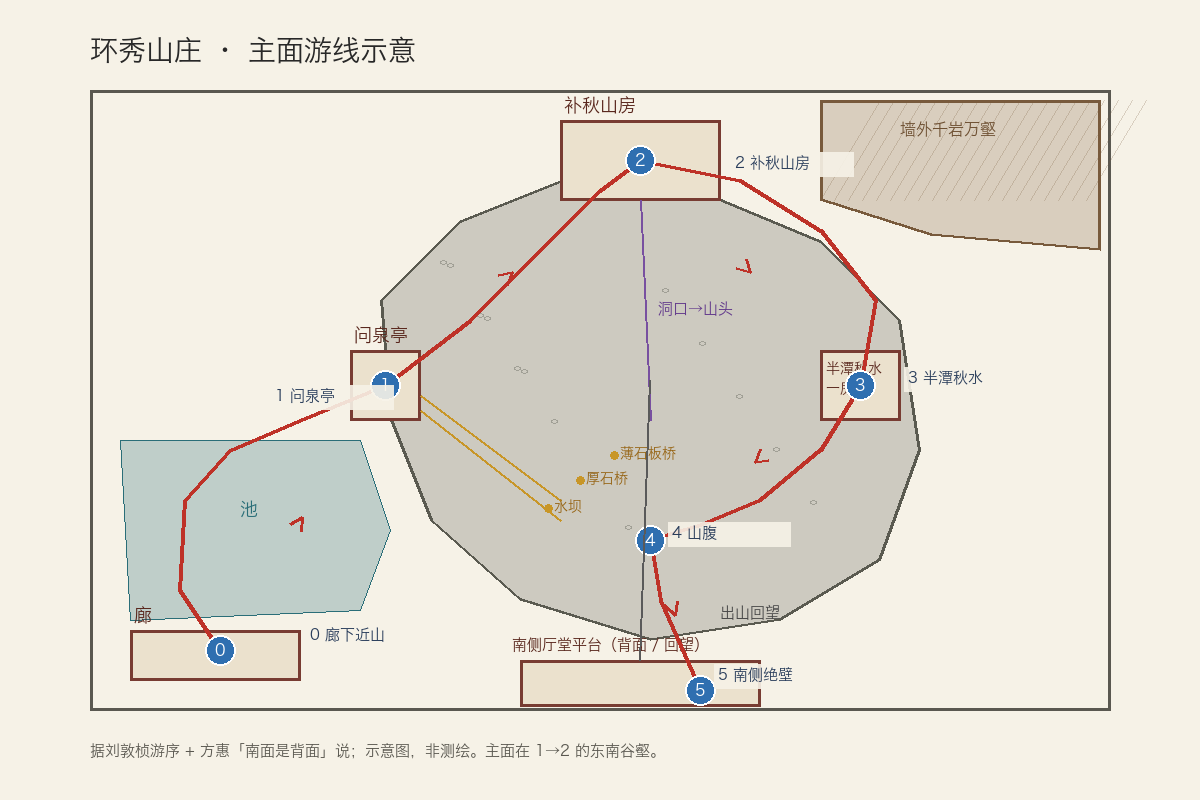
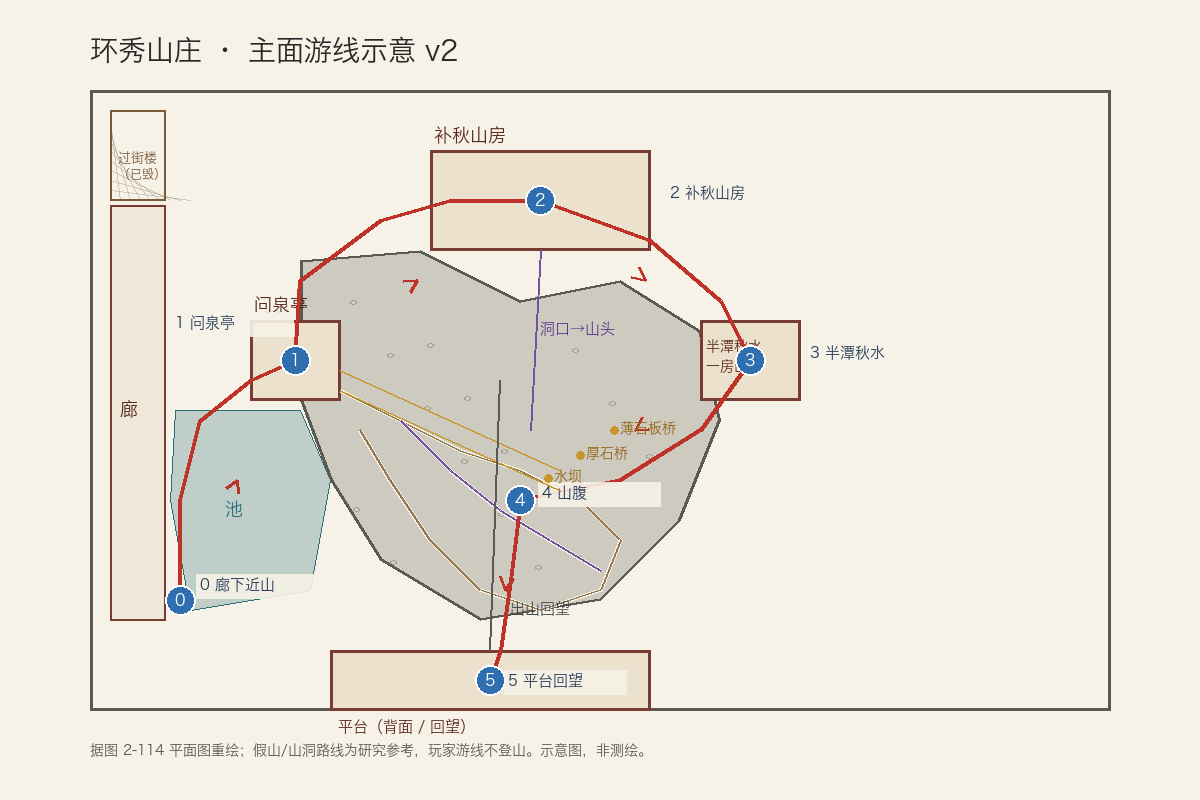
art(huanxiu): 游线平面 v2 据图2-114重绘；山洞路线作山腹
- route-plan.png v2：补秋山房北、问泉亭西、半潭秋水东、廊沿西墙、平台南；
  假山路线（虚线）与山洞路线（点划线）均画出
- 明确分工：假山路线不作玩家路径（不能登）；山洞路线可作 4 山腹 入山段，
  标“游戏化再现”，不等于今日开放
- 图 2-114 仅研究参考，不入游戏资源；本图为重绘示意

diff --git a/Game/gusu-whitebox/control/huanxiu/build_route_plan.py b/Game/gusu-whitebox/control/huanxiu/build_route_plan.py
@@ -1,5 +1,10 @@
 #!/usr/bin/env python3
-"""环秀山庄 · 主面游线示意（自绘，不复制书图）。"""
+"""环秀山庄 · 主面游线示意 v2（据平面图重绘，不复制原图）。
+
+参考：图 2-114《苏州环秀山庄平面图》（研究参考，不入游戏资源）。
+布局：补秋山房在北、问泉亭在西、半潭秋水一房山在东、廊沿西墙、平台在南；
+假山路线（虚线）与山洞路线（点划线）都在山体里。本图只画“看”的游线，不画可攀爬。
+"""
 from PIL import Image, ImageDraw, ImageFont
 from pathlib import Path
 import math
@@ -13,83 +18,95 @@ def main():
     d = ImageDraw.Draw(im, 'RGBA')
     d.rectangle([90, 90, 1110, 710], outline=(90, 88, 80), width=3)
 
-    pond = [(120,440),(360,440),(390,530),(360,610),(130,620)]
-    d.polygon(pond, fill=(90, 140, 145, 90), outline=(42, 110, 120))
-    d.text((240, 500), '池', fill=(42, 110, 120), font=F(18))
+    # 过街楼（已毁）与廊：西墙
+    d.rectangle([110,110,165,200], outline=(120,90,60), width=2)
+    for k in range(0, 90, 10):
+        d.line([(110+k,200),(110,110+k)], fill=(120,90,60,70), width=1)
+    d.text((118,150), '过街楼', fill=(120,90,60), font=F(13))
+    d.text((118,168), '（已毁）', fill=(120,90,60), font=F(12))
+    d.rectangle([110,205,165,620], fill=(235,225,205,160), outline=(120,60,50), width=2)
+    d.text((120,400), '廊', fill=(90,40,30), font=F(18))
 
-    rock = [(380,300),(460,220),(560,180),(700,190),(820,240),(900,320),(920,450),
-            (880,560),(780,620),(650,640),(520,600),(430,520),(390,420)]
-    d.polygon(rock, fill=(150, 150, 140, 110), outline=(90, 90, 80), width=3)
-    for i in range(14):
-        x = 440 + (i * 37) % 400
-        y = 260 + (i * 53) % 290
-        d.ellipse([x, y, x+6, y+4], outline=(110,110,100,120))
+    # 池（西/西南）
+    pond = [(175,410),(300,410),(330,480),(310,590),(190,610),(170,500)]
+    d.polygon(pond, fill=(90,140,145,90), outline=(42,110,120))
+    d.text((225,500), '池', fill=(42,110,120), font=F(18))
 
-    wall = [(820,100),(1100,100),(1100,250),(930,235),(820,200)]
-    d.polygon(wall, fill=(140, 110, 80, 70), outline=(120, 90, 60), width=3)
-    for k in range(0, 280, 14):
-        d.line([(820+k, 200), (820+k+60, 100)], fill=(120, 90, 60, 60), width=1)
-    d.text((900, 120), '墙外千岩万壑', fill=(110, 80, 50), font=F(16))
+    # 山体
+    rock = [(300,260),(420,250),(520,300),(620,280),(700,330),(720,420),
+            (680,520),(600,600),(480,620),(380,560),(330,480),(300,400)]
+    d.polygon(rock, fill=(150,150,140,110), outline=(90,90,80), width=3)
+    for i in range(16):
+        x = 350 + (i*37) % 330
+        y = 300 + (i*53) % 270
+        d.ellipse([x,y,x+6,y+4], outline=(110,110,100,120))
 
-    def house(box, label, fs=18, above=True):
-        d.rectangle(box, fill=(235, 225, 205), outline=(120, 60, 50), width=3)
-        if above:
-            d.text((box[0]+4, box[1]-24), label, fill=(90, 40, 30), font=F(fs))
+    # 建筑
+    def house(box, label, fs=18, dy=-24):
+        d.rectangle(box, fill=(235,225,205), outline=(120,60,50), width=3)
+        d.text((box[0]+4, box[1]+dy), label, fill=(90,40,30), font=F(fs))
+    house((430,150,650,250), '补秋山房')
+    house((250,320,340,400), '问泉亭')
+    house((700,320,800,400), '', 14)
+    d.text((706,338), '半潭秋水', fill=(90,40,30), font=F(14))
+    d.text((706,358), '一房山', fill=(90,40,30), font=F(14))
+    house((330,650,650,710), '', 15, dy=8)
+    d.text((338,718), '平台（背面 / 回望）', fill=(90,40,30), font=F(15))
 
-    house((560,120,720,200), '补秋山房')
-    house((350,350,420,420), '问泉亭')
-    house((130,630,300,680), '廊')
-    house((820,350,900,420), '', 14)
-    d.text((826,360), '半潭秋水', fill=(90, 40, 30), font=F(14))
-    d.text((826,380), '一房山', fill=(90, 40, 30), font=F(14))
-    house((520,660,760,706), '', 15)
-    d.text((512, 636), '南侧厅堂平台（背面 / 回望）', fill=(90, 40, 30), font=F(15))
+    # 假山路线（虚线） / 山洞路线（点划线）——研究参考，不画成玩家可走
+    mtn = [(340,390),(400,420),(460,450),(520,470),(580,500),(620,540),(600,590),
+           (540,610),(480,590),(430,540),(390,480),(360,430)]
+    d.line(mtn, fill=(150,120,80), width=2)
+    for a,b in zip(mtn, mtn[1:]):
+        d.line([a,b], fill=(246,242,231), width=4)
+        d.line([a,b], fill=(150,120,80), width=2)
+    cave = [(400,420),(450,470),(500,510),(550,540),(600,570)]
+    for a,b in zip(cave, cave[1:]):
+        d.line([a,b], fill=(120,80,160), width=2)
+        d.line([a,b], fill=(246,242,231), width=4)
+        d.line([a,b], fill=(120,80,160), width=2)
 
-    stations = [(220,650),(385,385),(640,160),(860,385),(650,540),(700,690)]
-    labels = ['0 廊下近山','1 问泉亭','2 补秋山房','3 半潭秋水','4 山腹','5 南侧绝壁']
+    # 游线（玩家实际走：不登山，只沿谷/廊/平台）
     route = [
-        [(220,650),(180,590),(185,500),(230,450),(300,420),(385,385)],
-        [(385,385),(470,320),(540,250),(600,190),(640,160)],
-        [(640,160),(740,180),(820,230),(875,300),(860,385)],
-        [(860,385),(820,450),(760,500),(700,525),(650,540)],
-        [(650,540),(660,600),(700,690)],
+        [(180,600),(180,500),(200,420),(250,380),(295,360)],
+        [(295,360),(300,280),(380,220),(450,200),(540,200)],
+        [(540,200),(650,240),(720,300),(750,360)],
+        [(750,360),(700,430),(620,480),(520,500)],
+        [(520,500),(510,580),(500,650),(490,680)],
     ]
     for seg in route:
-        d.line(seg, fill=(190, 50, 40), width=4, joint='curve')
-    for i, (a, b) in enumerate(zip(stations, stations[1:])):
-        ang = math.atan2(b[1]-a[1], b[0]-a[0])
-        mx, my = (a[0]+b[0])/2, (a[1]+b[1])/2
-        for s in (-0.5, 0.5):
-            d.line([(mx,my),(mx-14*math.cos(ang+s), my-14*math.sin(ang+s))], fill=(190,50,40), width=3)
-
+        d.line(seg, fill=(190,50,40), width=4, joint='curve')
+    stations = [(180,600),(295,360),(540,200),(750,360),(520,500),(490,680)]
+    for a,b in zip(stations, stations[1:]):
+        ang = math.atan2(b[1]-a[1], b[0]-a[0]); mx,my = (a[0]+b[0])/2,(a[1]+b[1])/2
+        for s in (-0.5,0.5):
+            d.line([(mx,my),(mx-14*math.cos(ang+s),my-14*math.sin(ang+s))], fill=(190,50,40), width=3)
+    labels = ['0 廊下近山','1 问泉亭','2 补秋山房','3 半潭秋水','4 山腹','5 平台回望']
+    offs = [(20,-8),(-120,-30),(130,0),(60,0),(22,0),(18,8)]
     for i,(x,y) in enumerate(stations):
         d.ellipse([x-15,y-15,x+15,y+15], fill=(47,111,176), outline='white', width=2)
-        d.text((x-5, y-9), str(i), fill='white', font=F(16))
-
-    # 站名（带底）
-    offs = [(90,-8),(-110,18),(95,10),(48,0),(22,0),(18,-8)]
-    for i,(x,y) in enumerate(stations):
+        d.text((x-5,y-9), str(i), fill='white', font=F(16))
         dx,dy = offs[i]
         d.rectangle([x+dx-4,y+dy-18,x+dx+118,y+dy+6], fill=(246,242,231,230))
-        d.text((x+dx, y+dy-16), labels[i], fill=(40,60,90), font=F(15))
+        d.text((x+dx,y+dy-16), labels[i], fill=(40,60,90), font=F(15))
 
-    # 问泉亭三层视线
-    d.line([(420,395),(560,500)], fill=(200,150,40), width=2)
-    d.line([(420,410),(560,520)], fill=(200,150,40), width=2)
-    for (x,y,t) in [(548,508,'水坝'),(580,480,'厚石桥'),(614,455,'薄石板桥')]:
+    # 主面三层视线
+    d.line([(340,370),(560,470)], fill=(200,150,40), width=2)
+    d.line([(340,390),(560,490)], fill=(200,150,40), width=2)
+    for (x,y,t) in [(548,478,'水坝'),(580,455,'厚石桥'),(614,430,'薄石板桥')]:
         d.ellipse([x-4,y-4,x+4,y+4], fill=(200,150,40))
         d.text((x+6,y-10), t, fill=(150,100,20), font=F(14))
     # 补秋山房 → 洞口
-    d.line([(640,200),(650,420)], fill=(120,80,160), width=2)
-    d.text((658,300), '洞口→山头', fill=(100,60,140), font=F(15))
-    # 南侧回望
-    d.line([(640,660),(650,380)], fill=(90,90,90), width=2)
-    d.text((720,604), '出山回望', fill=(70,70,70), font=F(15))
+    d.line([(540,250),(530,430)], fill=(120,80,160), width=2)
+    d.text((540,320), '洞口→山头', fill=(100,60,140), font=F(15))
+    # 平台回望
+    d.line([(490,650),(500,380)], fill=(90,90,90), width=2)
+    d.text((510,600), '出山回望', fill=(70,70,70), font=F(15))
 
-    d.text((90, 36), '环秀山庄 · 主面游线示意', fill=(40,40,40), font=F(28))
-    d.text((90, 742), '据刘敦桢游序 + 方惠「南面是背面」说；示意图，非测绘。主面在 1→2 的东南谷壑。', fill=(90,88,80), font=F(15))
+    d.text((90,36), '环秀山庄 · 主面游线示意 v2', fill=(40,40,40), font=F(28))
+    d.text((90,742), '据图 2-114 平面图重绘；假山/山洞路线为研究参考，玩家游线不登山。示意图，非测绘。', fill=(90,88,80), font=F(14))
     im.save(OUT/'route-plan.png')
-    print('wrote route-plan.png')
+    print('wrote route-plan.png v2')
 
 if __name__ == '__main__':
     main()

diff --git a/Game/gusu-whitebox/control/huanxiu/README.md b/Game/gusu-whitebox/control/huanxiu/README.md
@@ -380,7 +380,19 @@ python3 build_blockout.py
 
 ### 16.3 游线示意
 
-`route-plan.png`：0 廊下近山 → 1 问泉亭 → 2 补秋山房 → 3 半潭秋水一房山 → 4 山腹 → 5 南侧绝壁回望。
-主面在 1→2 的东南谷壑；5 是收尾，不是开场。
+`route-plan.png`（**v2，据图 2-114《苏州环秀山庄平面图》重绘**）：
+
+- 布局：补秋山房在北、问泉亭在西、半潭秋水一房山在东、廊沿西墙、平台在南。
+- 游线：0 廊下近山 → 1 问泉亭 → 2 补秋山房 → 3 半潭秋水 → **4 山腹** → 5 平台回望。
+- 主面在 1→2 的东南谷壑；5 是收尾，不是开场。
+
+**两条路线要分开：**
+
+| 线 | 平面图上的线 | 游戏里 |
+|---|---|---|
+| **假山路线** | 虚线，越山脊 | **不作玩家路径**（不能登） |
+| **山洞路线** | 点划线，穿山腹 | 可作 **4 山腹** 的入山段；标“游戏化再现”，不等于今日开放 |
+
+> 这样“不能登”与“进山”同时成立：**人从洞里进山，不从山上踩山。**
 
 > 图中“洞口→山头”“出山回望”“水坝/厚石桥/薄石板桥”三条视线，就是主面的三组对读。
